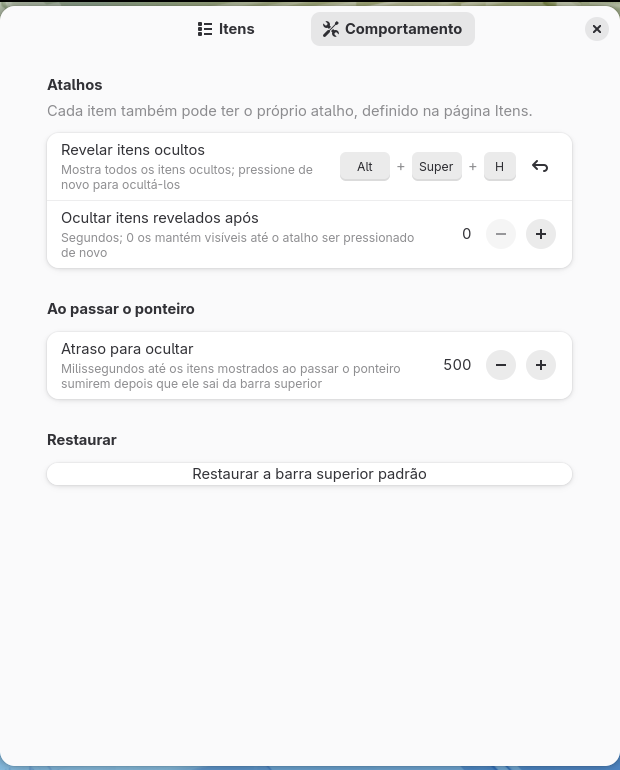
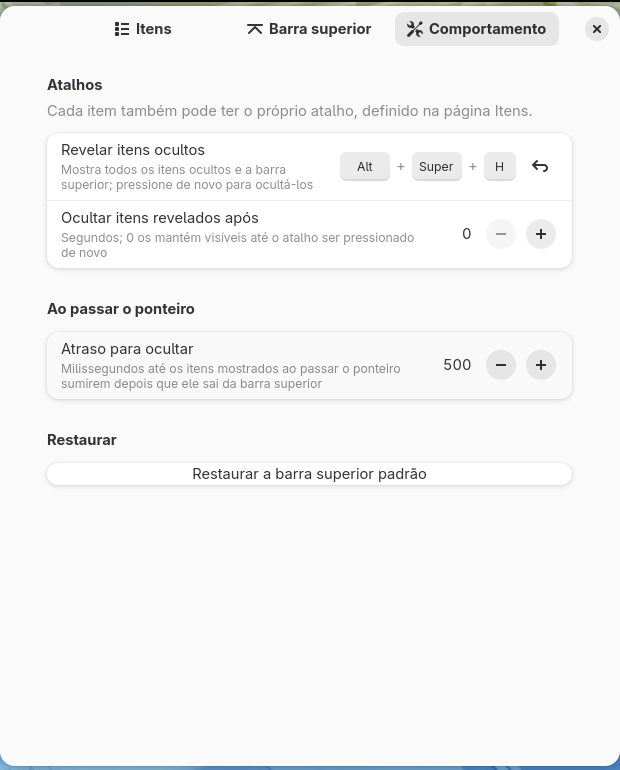
docs: document hiding the whole top bar
Features, the Top Bar page, examples, settings keys, how sliding,
struts, the overview padding and the top edge work, the new tests
and the limitations, with new screenshots.

Changed region(s): [[0.3065, 0.0312, 0.8887, 0.0623], [0.0919, 0.2182, 0.521, 0.2494], [0.1839, 0.0312, 0.2758, 0.0623]]

diff --git a/README.md b/README.md
@@ -1,8 +1,10 @@
 # Edit Top Bar
 
-A GNOME Shell extension to rearrange, hide and show the items of the top bar.
+A GNOME Shell extension to rearrange, hide and show the top bar and its items.
 
 Move any indicator to the left, center or right, reorder the small icons inside the system menu (network, volume, battery...) and choose **when** each item appears: always, never, only in the overview, only on hover, only on empty workspaces, and more. Every item can have its own keyboard shortcut, and one shortcut reveals everything that is hidden.
+
+The whole top bar can hide too: always, or only when a window touches it, a window is maximized or the workspace has windows. It comes back in the overview, when the pointer pushes the top edge, when one of its menus opens, or with a shortcut.
 
 | Default top bar |
 |---|
@@ -14,9 +16,17 @@ Move any indicator to the left, center or right, reorder the small icons inside 
 | **After the "reveal hidden items" shortcut** |
 | ![Every hidden item visible again](docs/screenshots/topbar-revealed.png) |
 
-| Items page | Item settings | Behavior page |
-|---|---|---|
-| ![List of top bar items grouped by Left, Right and System menu icons](docs/screenshots/preferences-items.png) | ![Position, visibility rule and shortcut of the clock](docs/screenshots/preferences-item.png) | ![Reveal shortcut, timeout, hover delay and reset](docs/screenshots/preferences-behavior.png) |
+| Whole top bar hidden | Shown again in the overview |
+|---|---|
+| ![Desktop without the top bar](docs/screenshots/panel-hidden.png) | ![Overview with the top bar above the search entry](docs/screenshots/panel-overview.png) |
+
+| Items page | Item settings |
+|---|---|
+| ![List of top bar items grouped by Left, Right and System menu icons](docs/screenshots/preferences-items.png) | ![Position, visibility rule and shortcut of the clock](docs/screenshots/preferences-item.png) |
+
+| Top Bar page | Behavior page |
+|---|---|
+| ![Mode, overview, pointer, conditions and shortcut of the whole top bar](docs/screenshots/preferences-topbar.png) | ![Reveal shortcut, timeout, hover delay and reset](docs/screenshots/preferences-behavior.png) |
 
 The screenshots are taken by the [smoke test](#smoke-test-buildsh-test). The preferences in them are in Brazilian Portuguese, one of the bundled translations.
 
@@ -54,14 +64,27 @@ The screenshots are taken by the [smoke test](#smoke-test-buildsh-test). The pre
   | Only on empty workspaces | when the current workspace has no windows |
   | Only when the workspace has windows | when the current workspace has at least one window |
 
+- **Hide the whole top bar:**
+
+  | Mode | The top bar is... |
+  |---|---|
+  | Always | shown, as in plain GNOME (the default; the extension does not touch it) |
+  | Hidden | hidden, except in the overview, while the pointer pushes the top edge, while one of its menus is open, or with a shortcut |
+  | Hide automatically | hidden while any of the checked situations is true: **a window touches the top bar** ("intellihide"), **a window is maximized**, or **the workspace has windows** |
+
+  - **show in the overview** can be turned off;
+  - **show when the pointer pushes the top edge** (like GNOME's hot corner, with the same pressure) can be turned off;
+  - while the top bar can hide, maximized windows and the overview **use its space**;
+  - it slides in and out, following GNOME's animation setting.
 - **Shortcuts:**
-  - **reveal hidden items** (`Super`+`Alt`+`H` by default): shows every hidden item; press again to hide them. Optionally hides them again after a few seconds;
+  - **reveal hidden items** (`Super`+`Alt`+`H` by default): shows every hidden item and the top bar; press again to hide them. Optionally hides them again after a few seconds;
+  - **show or hide the top bar** (`Super`+`Alt`+`T` by default): works in every mode, even *Always*; the next press returns the top bar to its mode;
   - **one shortcut per item**: shows a hidden item or hides a shown one; the next press returns the item to its rule.
 - **New indicators** from other extensions appear where their extension put them, and keep the position you give them, even after that extension is disabled and enabled again.
-- **Clean disable:** turning the extension off puts every item back in its original place and visibility.
-- **Preferences in two pages**, Items and Behavior, with changes applied right away.
+- **Clean disable:** turning the extension off puts every item back in its original place and visibility, and the top bar back in place with its space reserved.
+- **Preferences in three pages**, Items, Top Bar and Behavior, with changes applied right away.
 - **Translations:** Brazilian Portuguese and Spanish.
-- **Lightweight:** nothing is polled. The extension reacts to signals (items added or removed, overview, hover, windows) and only moves what is out of place.
+- **Lightweight:** nothing is polled in the background. The extension reacts to signals (items added or removed, overview, hover, windows) and only moves what is out of place. The only timer runs while the top bar is shown by the pointer, to notice when the pointer leaves.
 
 ## Requirements
 
@@ -158,14 +181,26 @@ On each row:
 
 Items with a rule other than **Always** have a dimmed icon, and the row's subtitle shows the rule and the shortcut.
 
+### Top Bar page
+
+| Option | What it does |
+|---|---|
+| **Show the top bar** | *Always*, *Hidden* or *Hide automatically* (see [Features](#features)) |
+| **Show in the overview** | Shows the hidden top bar while the overview is open. Not used in *Always* mode |
+| **Show when the pointer pushes the top edge** | Push the pointer against the top of the primary monitor to bring the top bar in; it hides again once the pointer leaves it, after the **Hide delay** of the Behavior page. Not used in *Always* mode |
+| **Hide automatically when** | The situations of *Hide automatically* mode; any checked one hides the top bar. By default only *a window touches the top bar* |
+| **Show or hide the top bar** | Shortcut that toggles the top bar in any mode. The arrow button restores `Super`+`Alt`+`T` |
+
+Whatever the mode, the top bar shows up while one of its menus is open, so `Super`+`S` (quick settings) and `Super`+`V` (notifications) still work with it hidden.
+
 ### Behavior page
 
 | Option | What it does |
 |---|---|
-| **Reveal hidden items** | Shortcut that shows every hidden item. Press again to hide them. The arrow button restores `Super`+`Alt`+`H` |
+| **Reveal hidden items** | Shortcut that shows every hidden item and the top bar. Press again to hide them. The arrow button restores `Super`+`Alt`+`H` |
 | **Hide revealed items after** | Seconds after which revealed items hide again on their own. `0` keeps them until the shortcut is pressed again |
-| **Hide delay** | Milliseconds before items with the "pointer over the top bar" rule hide after the pointer leaves. Avoids flicker when the pointer crosses the edge |
-| **Restore the default top bar** | Removes every position, rule and item shortcut, after a confirmation |
+| **Hide delay** | Milliseconds before items with the "pointer over the top bar" rule, and a top bar shown by the pointer, hide after the pointer leaves. Avoids flicker when the pointer crosses the edge |
+| **Restore the default top bar** | Removes every position, rule and item shortcut and sets the top bar back to *Always*, after a confirmation. The reveal and top bar shortcuts are kept |
 
 ### Examples
 
@@ -174,6 +209,8 @@ Items with a rule other than **Always** have a dimmed icon, and the row's subtit
 - **Indicators only while you look for them:** set them to *Only when the pointer is over the top bar*.
 - **Hide the microphone icon**, which is shown whenever an app records audio: open *Microphone* under *System menu icons* and set it to *Never*.
 - **Show an extension's indicator only in the overview:** set it to *Only in the overview*.
+- **More room on a small screen:** on the Top Bar page, choose *Hide automatically* with *A window is maximized*. Maximized windows get the full height, and the top bar comes back on an empty desktop, in the overview or when you push the top edge.
+- **No top bar at all, like a kiosk:** choose *Hidden* and turn off the overview and pointer options. `Super`+`Alt`+`T` still brings it back.
 
 ## Settings
 
@@ -189,6 +226,10 @@ dconf write /org/gnome/shell/extensions/edit-topbar/rules "{'activities': 'never
 
 # Super+Alt+1 toggles the clock
 dconf write /org/gnome/shell/extensions/edit-topbar/shortcuts "{'dateMenu': '<Super><Alt>1'}"
+
+# Hide the whole top bar when a window is maximized or touches it
+dconf write /org/gnome/shell/extensions/edit-topbar/panel-mode "'auto'"
+dconf write /org/gnome/shell/extensions/edit-topbar/panel-hide-when "['overlap', 'maximized']"
 ```
 
 | Key | Type | Default | Description |
@@ -197,6 +238,11 @@ dconf write /org/gnome/shell/extensions/edit-topbar/shortcuts "{'dateMenu': '<Su
 | `rules` | `a{ss}` | `{}` | Item id → rule: `always`, `never`, `overview`, `desktop`, `hover`, `empty-workspace` or `windows`. Missing items are always shown |
 | `shortcuts` | `a{ss}` | `{}` | Item id → accelerator, such as `<Super><Alt>1` |
 | `reveal-shortcut` | `as` | `['<Super><Alt>h']` | Shortcut that reveals every hidden item. `[]` disables it |
+| `panel-mode` | `s` | `'always'` | Whole top bar: `always`, `never` (hidden) or `auto` (hidden while any of `panel-hide-when` is true) |
+| `panel-hide-when` | `as` | `['overlap']` | Situations of `auto` mode: `overlap` (a window touches the top bar), `maximized` (a window is maximized on its monitor), `windows` (the workspace has windows; minimized ones do not count) |
+| `panel-show-in-overview` | `b` | `true` | Show the hidden top bar in the overview |
+| `panel-reveal-on-pressure` | `b` | `true` | Show the hidden top bar when the pointer pushes the top edge |
+| `panel-shortcut` | `as` | `['<Super><Alt>t']` | Shortcut that shows or hides the top bar. `[]` disables it |
 | `reveal-timeout` | `i` | `0` | Seconds before revealed items hide again (0 to 600). `0` waits for the shortcut |
 | `hover-delay` | `i` | `500` | Milliseconds before "on hover" items hide (0 to 5000) |
 | `known-items` | `a(ssss)` | `[]` | **Written by the extension.** Items found in the top bar as `(id, box, label, icon)`, read by the preferences. Changing it has no effect |
@@ -269,18 +315,36 @@ The conditions come from:
 |---|---|
 | Overview | `Main.overview` signals `showing` and `hiding` |
 | Pointer over the top bar | `Main.panel.hover` (the extension turns on `track_hover`) and the `open-state-changed` signal of every item's menu, so an item does not disappear while its own menu is open |
-| Windows in the workspace | `window-added` and `window-removed` of the active workspace, counting windows that are not skipped by the taskbar and are not the desktop |
+| Windows in the workspace | Every window is watched (`window-created`, `position-changed`, `size-changed`, `workspace-changed`, `notify::minimized`, `unmanaged`) and checked once per idle. Only windows on the active workspace that are not minimized, not skipped by the taskbar and not the desktop count |
+
+### Hiding the whole top bar
+
+`isPanelVisible()` in [rules.js](rules.js) decides, in this order:
+
+1. the top bar shortcut, if pressed, wins;
+2. in *Always* mode, the top bar is shown;
+3. it is shown while revealed by the "reveal hidden items" shortcut, while the pointer brought it in, and while one of its menus is open;
+4. in the overview, it follows *Show in the overview*;
+5. otherwise, *Hidden* hides it and *Hide automatically* hides it while any checked situation is true.
+
+[panel.js](panel.js) then does the work on `Main.layoutManager.panelBox`, the container of the top bar:
+
+- **Sliding:** the box eases its `translation_y` to minus its height (200 ms), so it moves out of the screen. Nothing is hidden or destroyed, so the indicators keep working. A menu opening from the hidden top bar shows it at once instead, before the menu is positioned under its button.
+- **Space:** GNOME tracks the box as chrome with `affectsStruts`, which reserves its height at the top of the work area. While the top bar can hide, the extension tracks it again without struts, so maximized windows and the overview take the full height. In *Always* mode the space stays reserved, and only the shortcut takes it away while it hides the top bar. GNOME measures the reserved space when the box's allocation changes, not when it slides, so the box is tracked again once it is back in place.
+- **Overview:** without struts, the overview starts at the top of the screen, under the top bar. When the top bar is shown in the overview, the search entry gets a top padding of the top bar's height so it is not covered.
+- **Top edge:** a `Meta.Barrier` along the top of the primary monitor lets the pointer move down only, and GNOME's `Layout.PressureBarrier` (the hot corner's, 100 px within 1 s) fires when the pointer pushes up against it. The top bar then slides in under a pointer that does not move, so no enter or leave event is guaranteed: while it is shown this way, the pointer position is checked every 100 ms, and the top bar hides once the pointer has been away for the hover delay.
+- **Fullscreen:** the box keeps GNOME's `trackFullscreen`, so GNOME still hides it over fullscreen windows.
 
 ### Shortcuts
 
-- **Reveal hidden items** uses `Main.wm.addKeybinding()` with the `reveal-shortcut` key.
+- **Reveal hidden items** and **show or hide the top bar** use `Main.wm.addKeybinding()` with the `reveal-shortcut` and `panel-shortcut` keys.
 - **Item shortcuts** are dynamic, so they cannot have their own schema keys. They are grabbed with `global.display.grab_accelerator()` and allowed with `Main.wm.allowKeybinding()`, the same way GNOME Shell serves the `GrabAccelerator` D-Bus method. A shortcut that is already in use cannot be grabbed: the extension logs a warning and skips it.
 
 Both work on the desktop and in the overview.
 
 ### Disabling
 
-`disable()` disconnects every signal, releases the shortcuts, gives the visibility of each hidden item back to its indicator and puts every moved item back in its original box and position. Items that appeared after the layout was applied are put back after the original ones.
+`disable()` disconnects every signal, releases the shortcuts, gives the visibility of each hidden item back to its indicator and puts every moved item back in its original box and position. Items that appeared after the layout was applied are put back after the original ones. The top bar slides back in place at once, reserves its space again, the pressure barrier is removed and the search entry loses its padding.
 
 The extension does not declare `session-modes`, so GNOME disables it on the lock screen and enables it again after unlocking. The lock screen therefore shows GNOME's default top bar.
 
@@ -291,6 +355,7 @@ edit-topbar/
 ├── metadata.json          # UUID, supported versions, schema and gettext domain
 ├── extension.js           # Finding items, moving, hiding, conditions and shortcuts
 ├── prefs.js               # Preferences window (GTK 4 + libadwaita)
+├── panel.js               # Sliding the whole top bar, its space, the top edge and the overview padding
 ├── rules.js               # Visibility rules and layout merging (no GNOME Shell imports)
 ├── schemas/               # GSettings schema
 ├── po/                    # Template (.pot) and translations (pt_BR, es)
@@ -335,6 +400,7 @@ edit-topbar/
 [tests/unit.js](tests/unit.js) runs with plain `gjs`, in a few seconds and without GNOME Shell. It covers [rules.js](rules.js):
 
 - every rule in every state, the reveal shortcut and the per-item override;
+- every top bar mode and condition, the overview, the pointer, open menus, the reveal shortcut and the top bar shortcut;
 - layouts: empty, partial, items moved across boxes, absent items, duplicated items, items that try to leave or enter the system menu, a new indicator next to its neighbour, and that no item is ever lost or duplicated;
 - moving an item in the preferences and keeping absent items when saving.
 
@@ -356,7 +422,9 @@ The script checks, in order:
 8. an indicator that shows itself while hidden is hidden again, and gets its own visibility back when the rule is removed;
 9. resetting the layout puts every item back;
 10. disabling restores the top bar, and enabling applies the layout again;
-11. both preferences pages and an item's settings open (screenshots).
+11. the whole top bar: *Hidden* mode gives its space to the windows, it shows in the overview with the search entry pushed down (and stays hidden when that is turned off), the top bar shortcut, the reveal shortcut, the top edge with a virtual pointer (shows, stays while the pointer is on it, hides after it leaves) and a menu opening;
+12. *Hide automatically* with each checked situation and an unchecked one, disabling restores the top bar and its space, enabling hides it again, and *Always* reserves the space again;
+13. the three preferences pages and an item's settings open (screenshots).
 
 It fails on any `JS ERROR`, `JS WARNING` or `Gjs-CRITICAL` in the shell log. Screenshots and logs go to `tests/output/`.
 
@@ -411,6 +479,9 @@ The CI fails if a translation has untranslated or fuzzy strings, or if `po/edit-
 - Item shortcuts that clash with a shortcut already used by GNOME or another app are not grabbed (see [Logs](#logs)).
 - The lock screen always shows GNOME's default top bar (see [Disabling](#disabling)).
 - With the clock moved to a side box, GNOME still shows notification banners at the top center.
+- While the top bar can hide, notification banners appear at the very top of the screen and may cover a shown top bar for a few seconds.
+- The top edge only works on the primary monitor, where the top bar is. It needs pointer barriers, which Wayland always supports and X11 supports with XInput 2.3.
+- Do not enable this together with another extension that hides the top bar, such as *Hide Top Bar*: both would move the same box. Keep *Show the top bar* on *Always* or disable the other one.
 
 ## License
 
